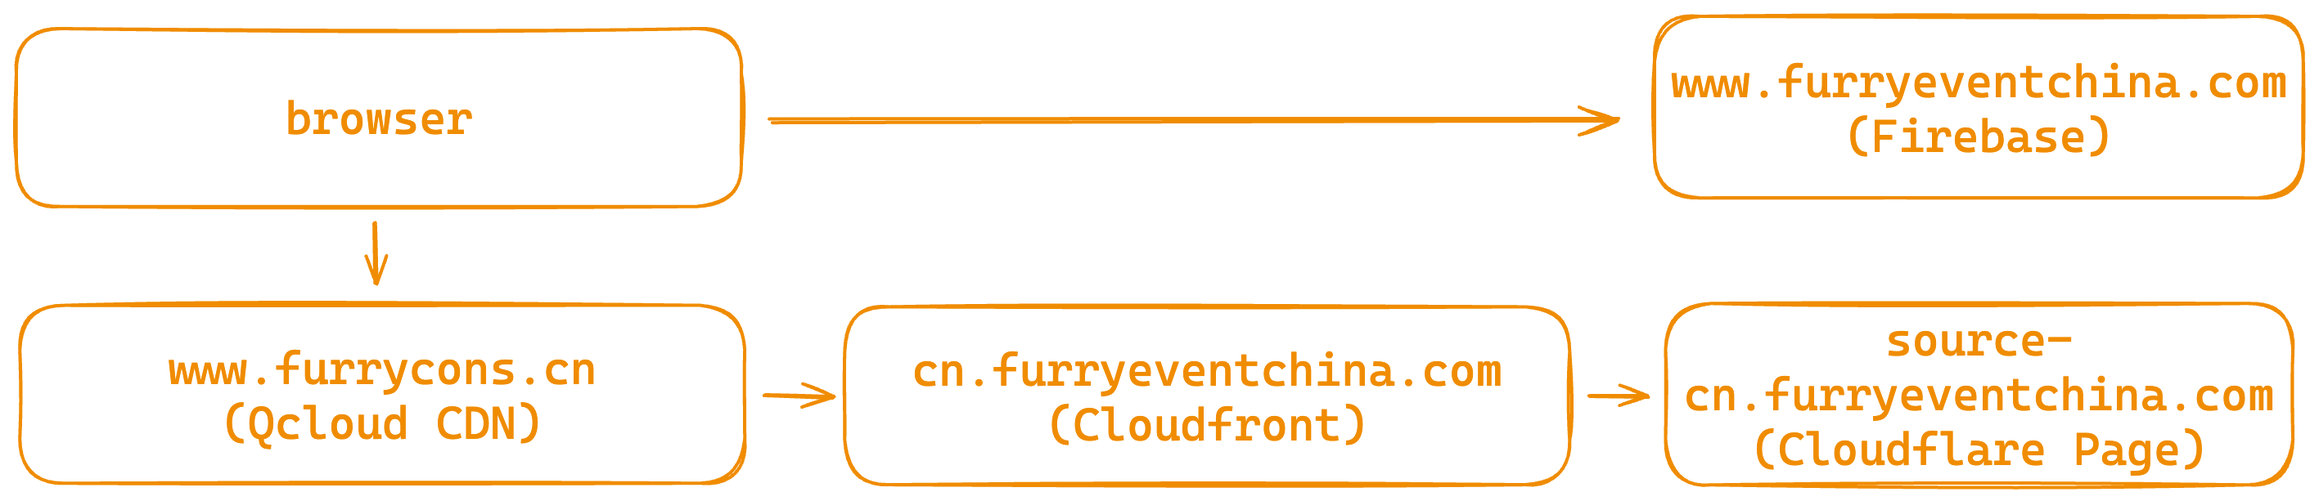
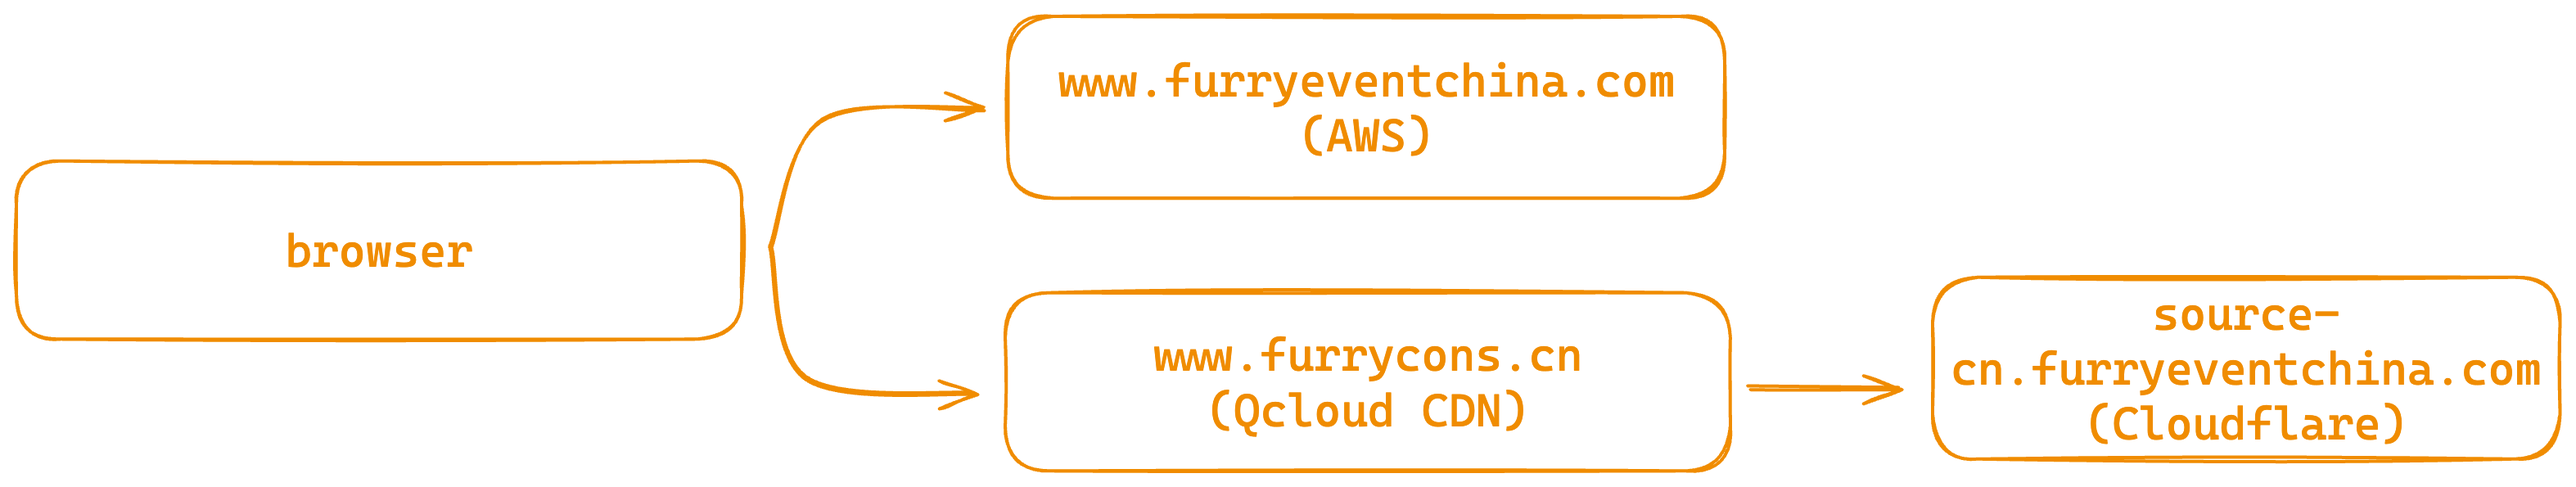
feat: update infra

diff --git a/blog/2023-12-26-infra.md b/blog/2023-12-26-infra.md
@@ -15,10 +15,10 @@ FEC 的所有入口均只支持 HTTPS 访问，所有的 HTTP 访问将会收到
 ### 国际入口
 
 - [www.furryeventchina.com](https://www.furryeventchina.com)
-- [cn.furryeventchina.com](https://cn.furryeventchina.com)
 
-### 大陆镜像入口
-`www.furrycons.cn` 是对 `cn.furryeventchina.com`的直接反代镜像，我们强烈推荐任何身处中国大陆且没有良好自适应网络环境的用户使用该域名。
+### 大陆入口
+
+`www.furrycons.cn` 是针对静态资源加载速度特殊优化后的专用地址，具有 ICP 备案号，我们强烈推荐任何身处中国大陆且没有良好自适应网络环境的用户使用该域名。
 
 - [www.furrycons.cn](https://www.furrycons.cn)
 
@@ -33,13 +33,17 @@ FEC 的所有入口均只支持 HTTPS 访问，所有的 HTTP 访问将会收到
 
 ### 图片处理流程
 
-这不是一个良好的设计，我们之后会使用新的架构。
 ![image process](/img/img-route.png)
 
-### 图片处理供应商
+## 基础设施
 
-FEC 一代架构使用 [Cloudinary](https://cloudinary.com) 作为图片处理的后端供应商。
+### CDN
+FEC 目前混合使用 Cloudflare、Cloudfront、Qcloud 提供的CDN。主要依据地区位置来区别提供服务。
 
-## 数据库
+### 图片处理
 
-FEC 一代架构的数据库 [Xata](https://xata.io/) 仅在 SSG 时使用。
+FEC 目前使用 [Cloudinary](https://cloudinary.com) 作为图片处理的后端供应商。
+
+### 数据库
+
+FEC 目前使用 [Xata](https://xata.io/) 来存储我们的数据。
